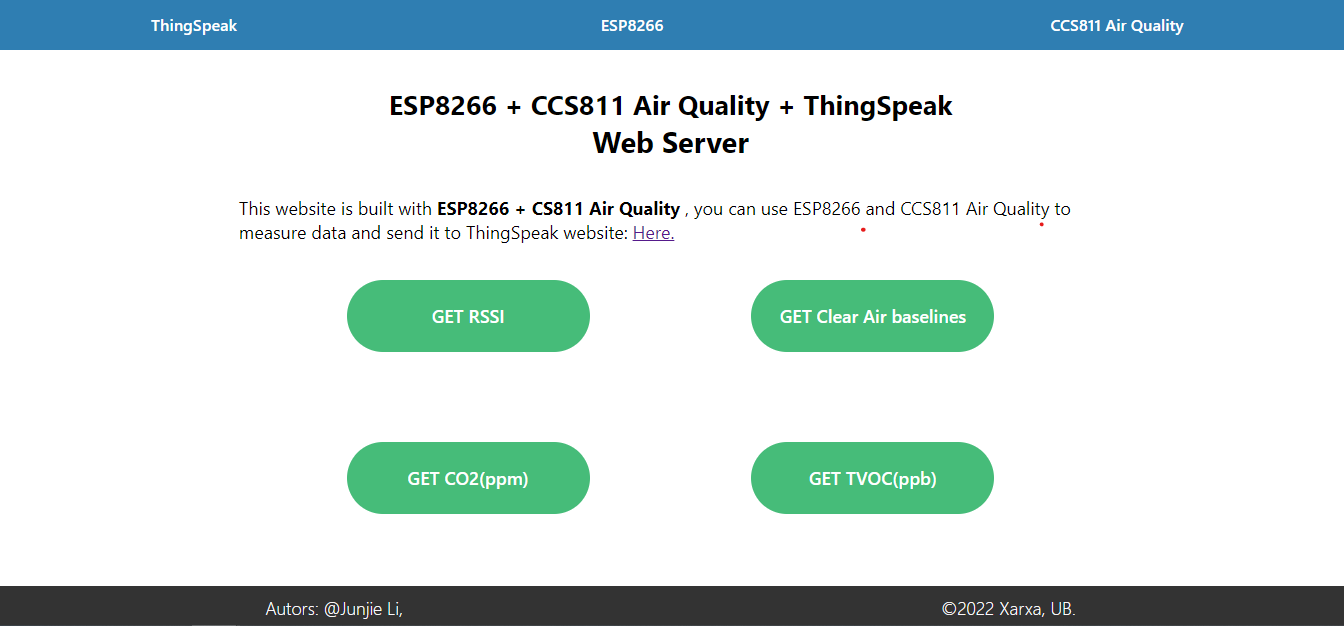
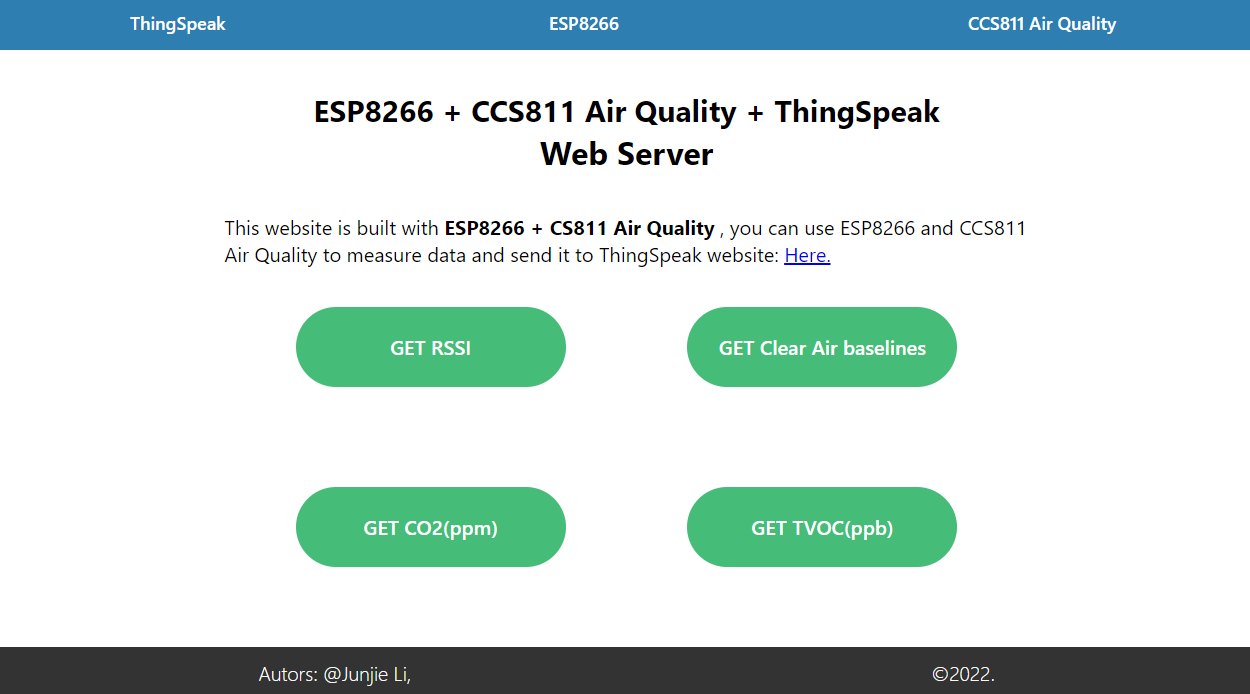
update README.md

diff --git a/web/index.html b/web/index.html
@@ -15,7 +15,8 @@
 
     <div class='header'>
         <a href='https://thingspeak.com/'>ThingSpeak</a>
-        <a href='https://www.generationrobots.com/media/adafruit-feather-huzzah-esp8266-user-guide-tutorial.pdf'>ESP8266</a>
+        <a
+            href='https://www.generationrobots.com/media/adafruit-feather-huzzah-esp8266-user-guide-tutorial.pdf'>ESP8266</a>
         <a href='https://www.dfrobot.com/product-2065.html'>CCS811 Air Quality</a>
     </div>
 
@@ -30,13 +31,14 @@
             <a href='https://thingspeak.com/'>ThingSpeak</a>
         </div>
         <div class="mobile-flow">
-            <a href='https://www.generationrobots.com/media/adafruit-feather-huzzah-esp8266-user-guide-tutorial.pdf'>ESP8266</a>
+            <a
+                href='https://www.generationrobots.com/media/adafruit-feather-huzzah-esp8266-user-guide-tutorial.pdf'>ESP8266</a>
         </div>
         <div class="mobile-flow">
             <a href='https://www.dfrobot.com/product-2065.html'>CCS811 Air Quality</a>
         </div>
     </div>
-    
+
 
 
     <div class='container'>
@@ -46,7 +48,8 @@
         </div>
 
         <div class='description'>
-            This website is built with <strong>ESP8266 + CS811 Air Quality</strong> , you can use ESP8266 and CCS811 Air Quality to
+            This website is built with <strong>ESP8266 + CS811 Air Quality</strong> , you can use ESP8266 and CCS811 Air
+            Quality to
             measure data and send it to ThingSpeak website:
             <a href='https://thingspeak.com/channels/1991175'>Here.</a>
         </div>
@@ -55,23 +58,27 @@
         <div class='main'>
             <div class='flow'>
                 <div class='buttom'>
-                        <a href='1'>
+                    <a href='1'>
                         <div>GET RSSI</div>
-                    </a></div>
+                    </a>
+                </div>
                 <div class='buttom'>
-                        <a href='2'>
+                    <a href='2'>
                         <div>GET Clear Air baselines numbers</div>
-                    </a></div>
+                    </a>
+                </div>
             </div>
             <div class='flow'>
                 <div class='buttom'>
-                        <a href='3'>
+                    <a href='3'>
                         <div>GET CO2(ppm)</div>
-                    </a></div>
+                    </a>
+                </div>
                 <div class='buttom'>
-                        <a href='4'>
+                    <a href='4'>
                         <div>GET TVOC(ppb)</div>
-                    </a></div>
+                    </a>
+                </div>
             </div>
         </div>
 
@@ -81,7 +88,7 @@
         <div class='footer-item'>Autors:
             <a href='https://github.com/junjielyu13'>@Junjie Li,</a>
         </div>
-        <div class='footer-item'>©2022 Xarxa, UB.</div>
+        <div class='footer-item'>©2022.</div>
     </div>
 
 

diff --git a/webserver/web.c b/webserver/web.c
@@ -284,7 +284,7 @@ void printWeb(WiFiClient client){
                         <div class='footer-item'>Autors:
                             <a href='https://github.com/junjielyu13'>@Junjie Li,</a>
                         </div>
-                        <div class='footer-item'>©2022 Xarxa, UB.</div>
+                        <div class='footer-item'>©2022.</div>
                     </div>
 
 
